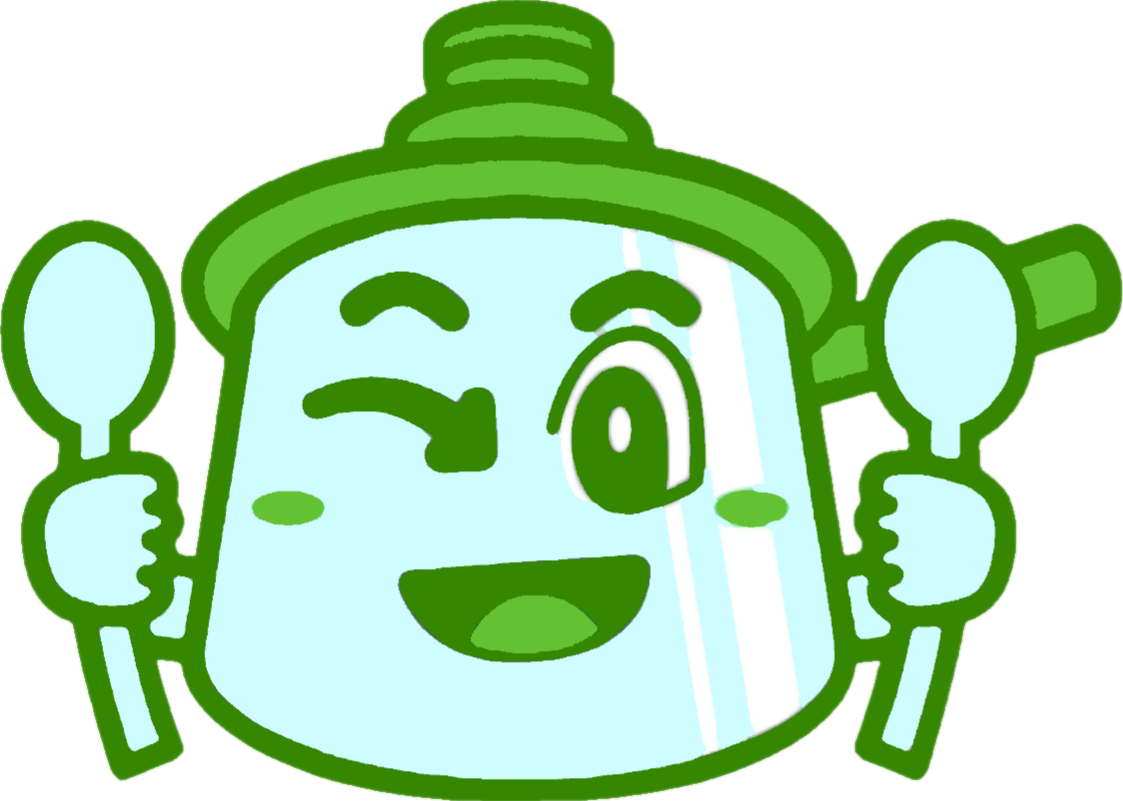
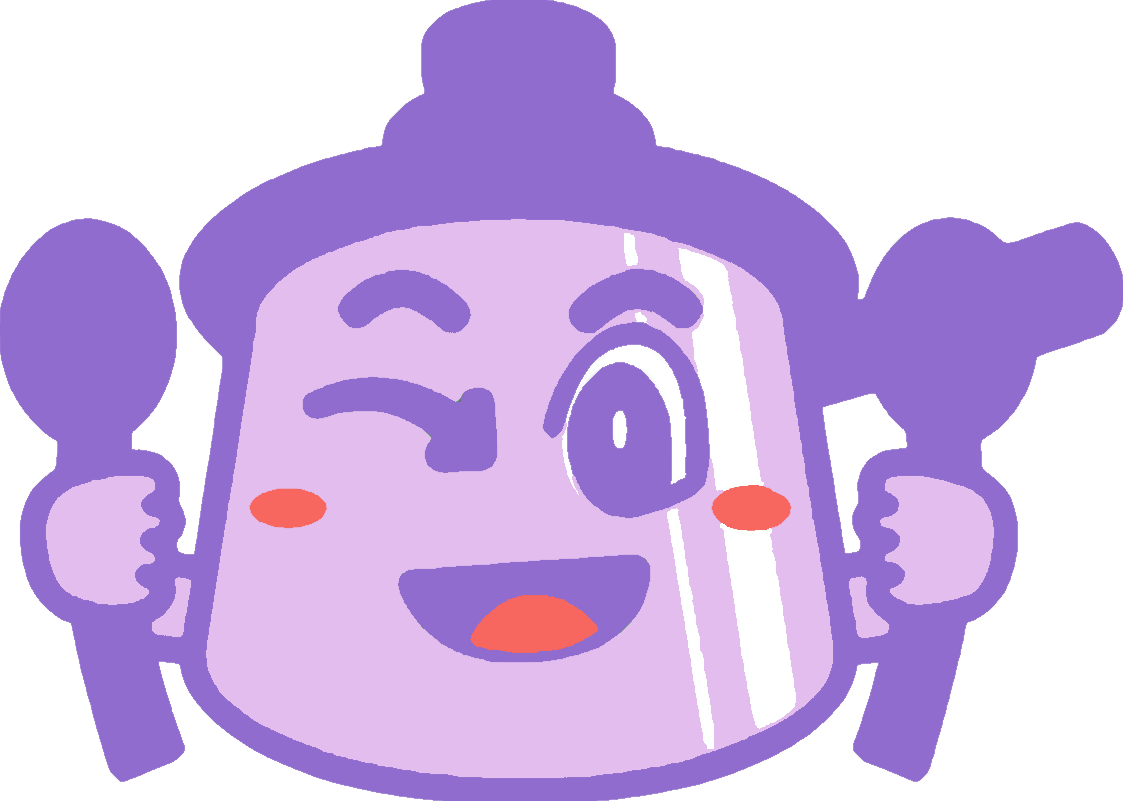
Changed the colors to be more complementary

diff --git a/static/css/base.css b/static/css/base.css
@@ -10,7 +10,7 @@ body {
     display: flex;
     flex-direction: column;
     min-height: 100vh;
-    background-color: #9ee37d !important;
+    background-color: #bff0a4 !important;
 }
 
 main {
@@ -18,7 +18,7 @@ main {
 }
 
 ::selection {
-    background: #aaefdf;
+    background: #e2bdee;
 }
 
 .spinner-wrapper {
@@ -40,24 +40,44 @@ main {
     width: 60px;
 }
 
-/* Bootstrap SCSS */
+/* Coolors */
 
-.dropdown-item.active, .dropdown-item:active {
-    --bs-dropdown-link-active-bg: #9ee37d;
+.light-green {
+    color: #bff0a4;
 }
 
-.dropdown-item:focus, .dropdown-item:hover {
-    --bs-dropdown-link-hover-bg: #a2b3ac;
+.dark-purple {
+    color: #906ccf;
+}
+
+/* Bootstrap SCSS */
+
+.dropdown-item.active, .dropdown-item:active, .dropdown-item:focus {
+    --bs-dropdown-link-active-bg: #906ccf;
+}
+
+.dropdown-item:hover {
+    --bs-dropdown-link-hover-bg: #f7665f;
 }
 
 .dropdown-menu {
-    --bs-body-bg: #d1e7dd;
+    --bs-body-bg: #e2bdee;
 }
 
 .card {
-    --bs-card-bg: #d1e7dd !important;
+    --bs-card-bg: #e2bdee !important;
 }
 
 .form-control {
-    background-color: #d1e7dd !important;
+    background-color: #e2bdee !important;
+}
+
+.btn-danger {
+    --bs-btn-bg: #f7665f !important;
+    --bs-btn-border-color: #f7665f !important;
+}
+
+.alert-success {
+    --bs-alert-bg: #e2bdee !important;
+    --bs-alert-border-color: #9273cc !important;
 }

diff --git a/static/css/index.css b/static/css/index.css
@@ -79,24 +79,20 @@
 
 /* Custom button */
 
-.light-green-btn {
+.btn-success {
     --bs-btn-color: black !important;
-    --bs-btn-bg: #9ee37d !important;
-    --bs-btn-border-color: #9ee37d !important;
+    --bs-btn-bg: #bff0a4 !important;
+    --bs-btn-border-color: #bff0a4 !important;
 }
 
-.light-green-btn:hover {
+.btn-success:hover {
     --bs-btn-hover-color: black !important;
-    --bs-btn-hover-bg: #7ab060 !important;
-    --bs-btn-hover-border-color: #7ab060 !important;
+    --bs-btn-hover-bg: #92d76c !important;
+    --bs-btn-hover-border-color: #92d76c !important;
 }
 
-.light-green-btn:active {
+.btn-success:active {
     --bs-btn-active-color: black !important;
-    --bs-btn-active-bg: #689652 !important;
-    --bs-btn-active-border-color: #689652 !important;
-}
-
-.light-green {
-    color: #9ee37d;
+    --bs-btn-active-bg: #906ccf !important;
+    --bs-btn-active-border-color: #906ccf !important;
 }

diff --git a/templates/base.html b/templates/base.html
@@ -32,7 +32,7 @@
 
     <!-- Navbar -->
     <nav class="navbar navbar-expand-lg bg-body-tertiary sticky-top" aria-label="Thirteenth navbar example"
-    style="background-color: #9ee37d !important;">
+    style="background-color: #bff0a4 !important;">
         <div class="container">
           <button class="navbar-toggler" type="button" data-bs-toggle="collapse" data-bs-target="#navbarsExample11" aria-controls="navbarsExample11" aria-expanded="false" aria-label="Toggle navigation">
             <span class="navbar-toggler-icon"></span>

diff --git a/static/css/about_us.css b/static/css/about_us.css
@@ -13,9 +13,9 @@
 /* Bootstrap SCSS */
 
 .accordion, .accordion-item {
-    --bs-accordion-bg: #d1e7dd;
+    --bs-accordion-bg: #e2bdee;
 }
 
 .accordion-button {
-    --bs-accordion-btn-bg: #d1e7dd;
+    --bs-accordion-btn-bg: #e2bdee;
   }
